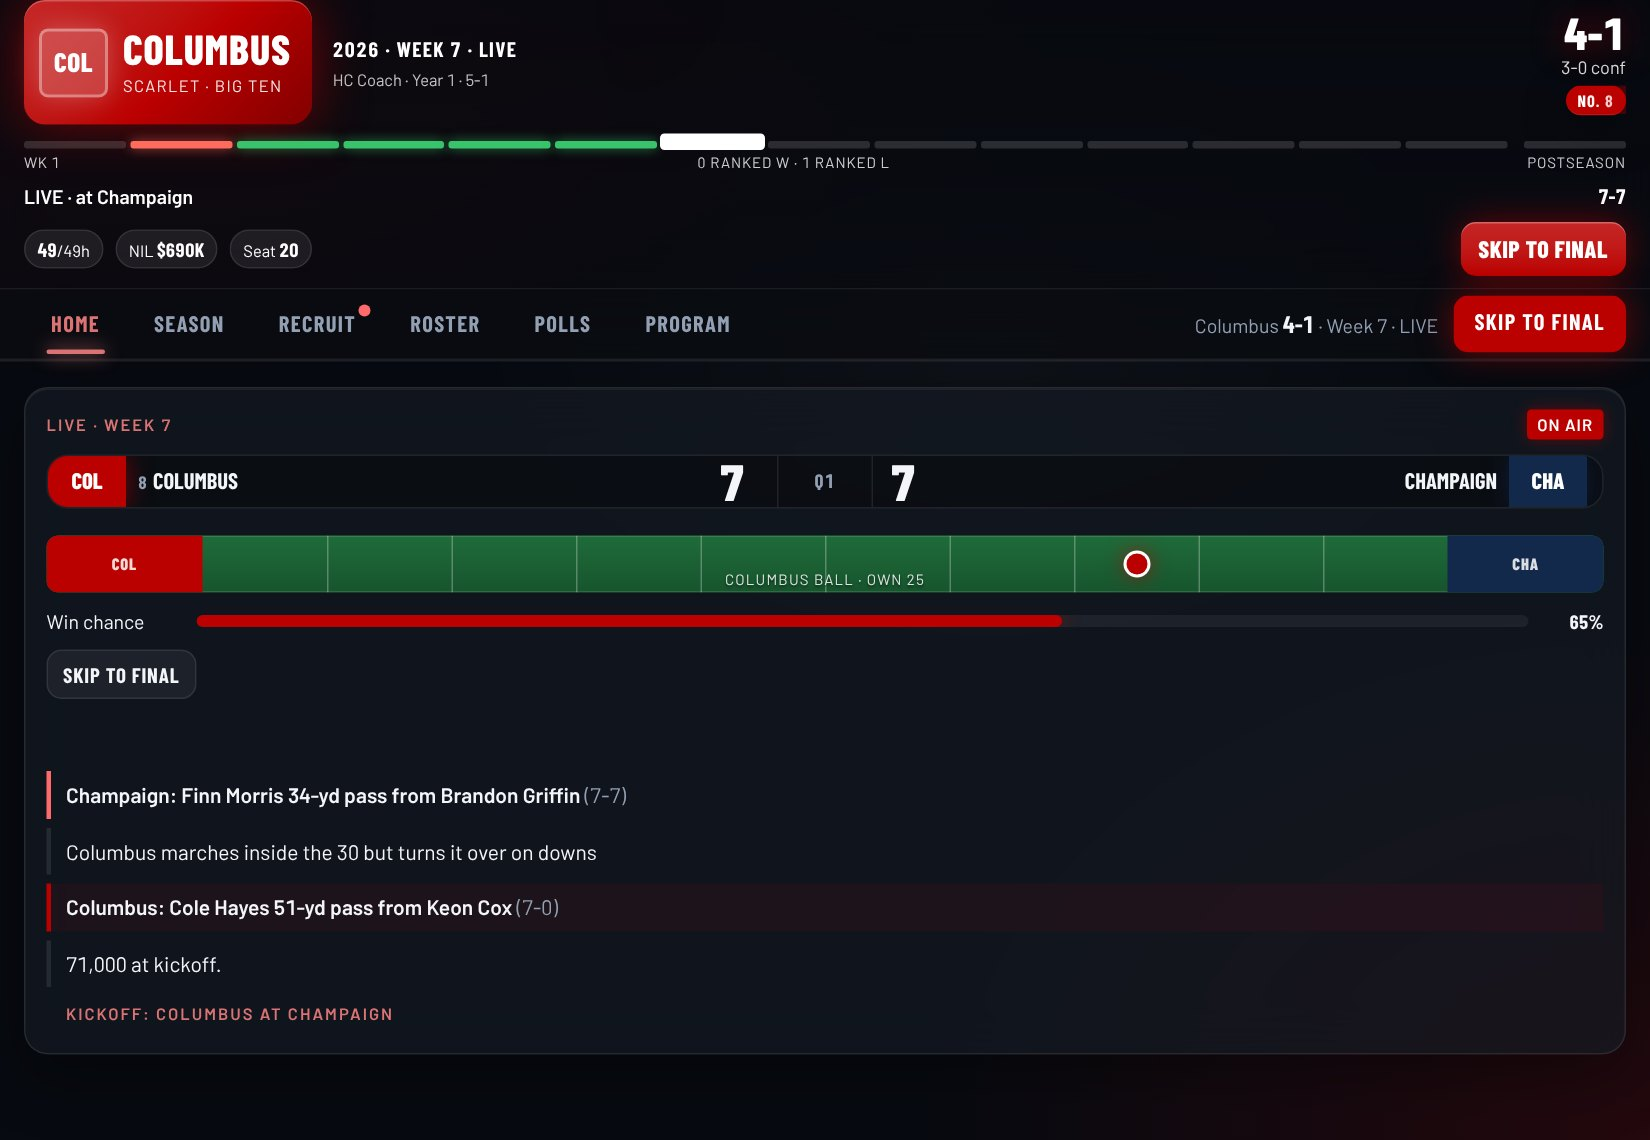
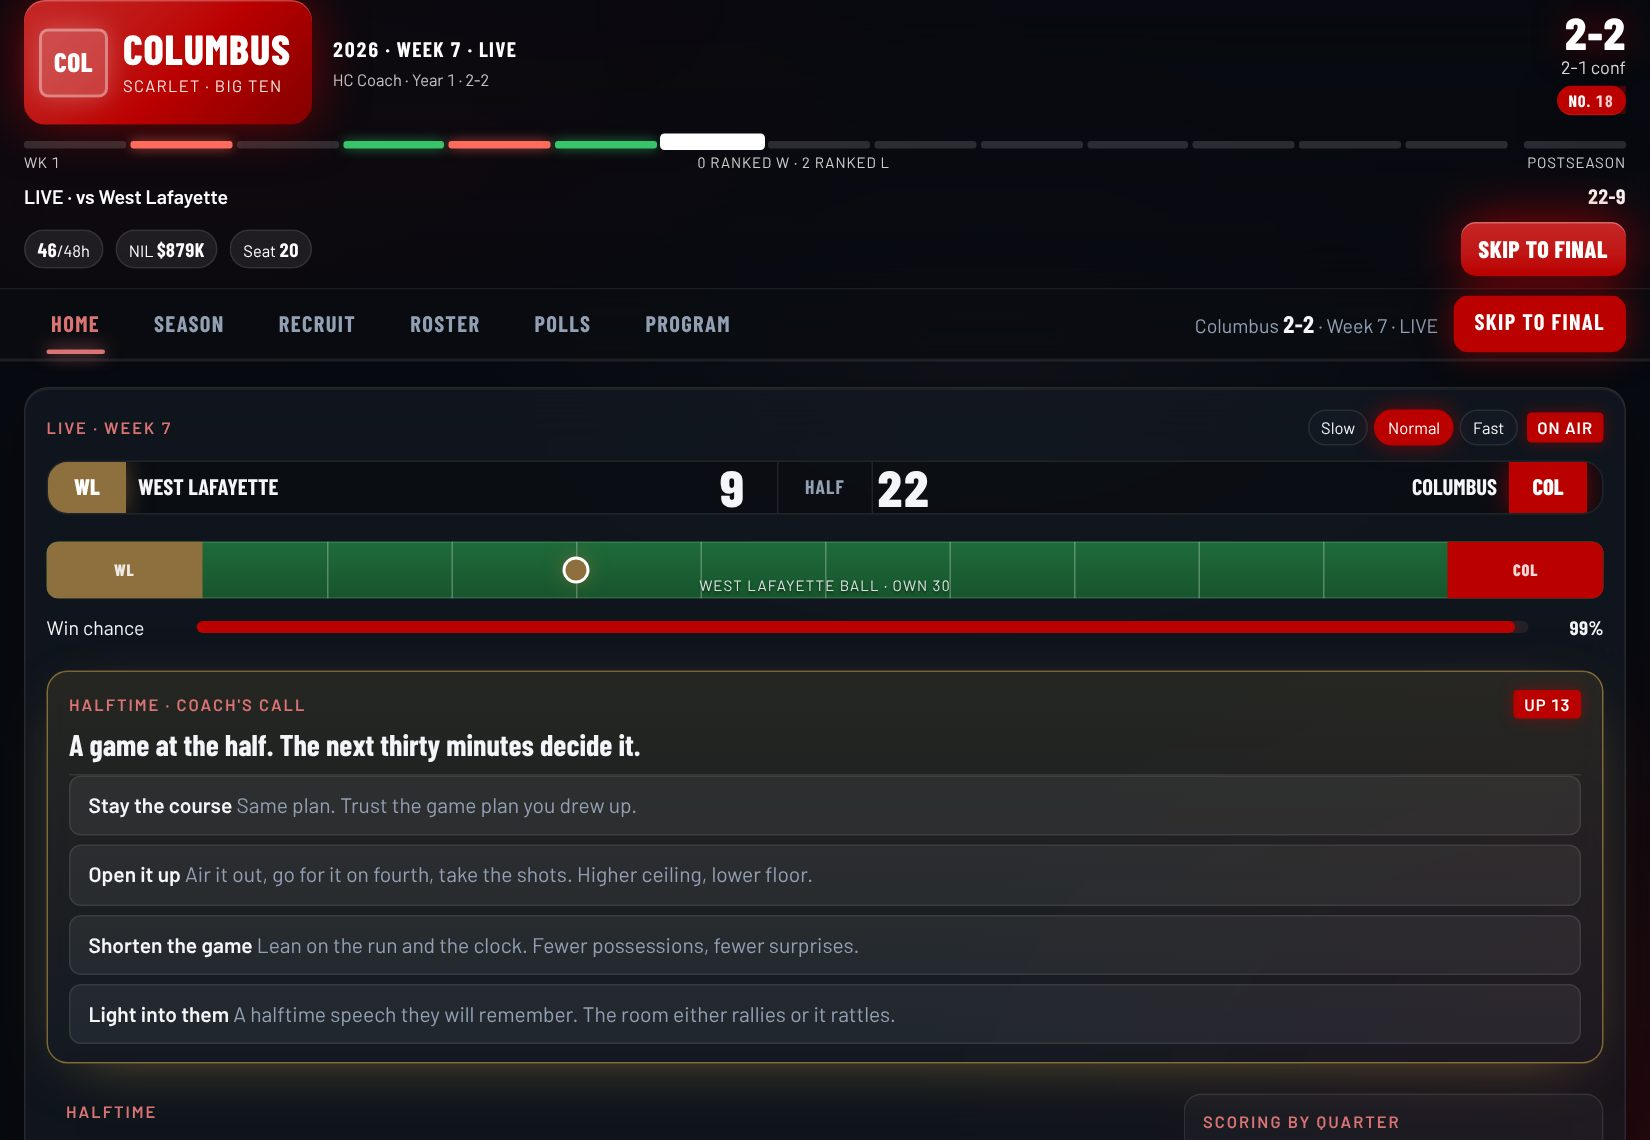
1.69.0: Visiting recruits show up on the broadcast sideline. Bold calls that win (going for it, sending the house, lighting into them, opening it up) earn big-game XP. Website screenshots and copy refreshed for the live calls.
Claude-Session: https://claude.ai/code/session_01HBQyJtzy8Sp6i9vWAcSez4

diff --git a/app/index.html b/app/index.html
@@ -4,7 +4,7 @@
 <meta charset="utf-8">
 <meta name="viewport" content="width=device-width, initial-scale=1">
 <meta http-equiv="Content-Security-Policy" content="default-src 'self' 'unsafe-inline' data:; img-src 'self' data:; font-src 'self' data:">
-<meta name="app-version" content="1.68.0">
+<meta name="app-version" content="1.69.0">
 <title>Saturday Sweater</title>
 <style>
 @font-face{font-family:"Barlow";font-weight:400;src:url(fonts/barlow-latin-400-normal.woff2) format("woff2")}
@@ -2194,7 +2194,8 @@ function buildFeed(g,playsIn,half){
   const R=gameRiv(g);const big=(g.hrank<=25&&g.arank<=25)||g.type!=='reg';const crowd=g.neutral?rint(60,78):(g.crowd||crowdFor(g).crowd);
   const extra=g.hc===g.home?' Homecoming weekend: alumni everywhere, the band on the field early.':g.sd===g.home?' Senior Day. The seniors walk out with their families before kickoff.':'';
   const stage=g.type==='po'?(g.round==='f'?'The national championship game. ':g.round==='sf'?'A playoff semifinal. ':g.round==='qf'?'A playoff quarterfinal. ':'College Football Playoff, first round, on campus in December. ')+(g.round==='r1'?'':'')+(g.hrank<=25||g.arank<=25?`${a.name} ${a.rank<=25?'(No. '+a.rank+') ':''}at ${h.name}${h.rank<=25?' (No. '+h.rank+')':''}. `:''):g.type==='ccg'?`The ${CONFS[g.confName]?CONFS[g.confName].name:''} championship game. A trophy and a playoff bid on the line. `:g.type==='bowl'?`The ${g.name} Bowl. ${pick(['Bowl season: half the stadium is on vacation and the other half is loud.','Two weeks of practice and a trophy at the end of it.','Pageantry everywhere, and some players already have one foot in the portal.'])} `:'';
-  const scene=stage+(R&&R.name?`${R.name}. ${crowd},000 and the student section has been in since noon. ${R.streak&&R.streak.n>=2?T(R.streak.team).name+' has won '+R.streak.n+' straight in this series.':'Series '+(R.w[h.id]||0)+'-'+(R.w[a.id]||0)+' with '+(R.w[h.id]>=(R.w[a.id]||0)?h.name:a.name)+' in front.'}`:big?`${crowd},000 in the building for a ranked matchup. It is loud.`:g.neutral?`Neutral site, ${crowd},000 split down the middle.`:`${crowd},000 at kickoff.`)+extra;
+  const vis=(()=>{try{const hid=isHuman(g.home)?g.home:isHuman(g.away)?g.away:null;if(hid==null)return '';const L2=G.recruits.filter(r=>r.committed==null&&r.visitWk===g.week&&(g.home===G.user||g.away===G.user)).slice(0,2);return L2.length?` ${L2.map(r=>`${starStr(r.stars)} ${r.pos} ${r.n}`).join(' and ')} ${L2.length>1?'are':'is'} on the ${T(hid).name} sideline for this one.`:'';}catch(e){return '';}})();
+  const scene=stage+(R&&R.name?`${R.name}. ${crowd},000 and the student section has been in since noon. ${R.streak&&R.streak.n>=2?T(R.streak.team).name+' has won '+R.streak.n+' straight in this series.':'Series '+(R.w[h.id]||0)+'-'+(R.w[a.id]||0)+' with '+(R.w[h.id]>=(R.w[a.id]||0)?h.name:a.name)+' in front.'}`:big?`${crowd},000 in the building for a ranked matchup. It is loud.`:g.neutral?`Neutral site, ${crowd},000 split down the middle.`:`${crowd},000 at kickoff.`)+extra+vis;
   const wx=wxFor(g);const jn=isHuman(g.home)?withCoachRet(g.home,()=>jerseyNight(g)):null;const feed=[{k:'q',text:`Kickoff: ${a.name} at ${h.name}`,hs:0,as:0},{k:'f',team:g.home,text:scene+(jn?` ${jn.n} walks out at midfield with his family and the number goes up on the facade. The place loses it.`:'')+(wx?' '+({snow:'Snow is falling and the yard lines are going.',rain:'Steady rain. The ball is already slick.',wind:'Flags are standing straight out. Kickers are nervous.',heat:'It is brutally hot. Trainers have the tents up.',cold:'Teens at kickoff. Breath hanging over the sideline.'})[wx]:''),hs:0,as:0}];let hs=0,as=0,q=1;
   const CROWD=['The crowd noise forces a false start on {t}','{d} gets the whole stadium on its feet with a third-down stop','The student section is chanting at the {t} sideline','A scuffle after the whistle; flags on both teams','{t} goes for it on fourth down and the place is shaking','{d} jaws with the {t} bench after a sack'];
   // drive state: who has it and where (yards from the offense's own goal line)
@@ -2258,6 +2259,7 @@ function actFourth(k){const L=UI.live;if(!L||!L.pre||!L.pre.decided||L.pre.decid
   const line4={k:'f',call:true,q:4,time:'15:00',team:G.user,text:k==='stay'?'Fourth quarter. No tricks, just football.':k==='go'?'Fourth quarter. The punter can sit down; you are going for everything.':k==='clock'?'Fourth quarter. Three yards and a cloud of dust, and the clock keeps moving.':k==='prevent'?'Fourth quarter. Safeties are twenty yards deep. Bend, do not break.':(L.pre.blitzHit?'Fourth quarter. You send the house and the first blitz gets home for a strip-sack.':'Fourth quarter. You send the house and the first screen goes forty yards the other way.'),hs:last.hs,as:last.as,pos:rest[0]?rest[0].pos:null,yd:rest[0]?rest[0].yd:25};
   g._forced={hs,as,ot:otf};g.h1=h1;g._pre={[g.home]:L.pre.preH,[g.away]:L.pre.preA,through:4};g._call=L.pre.decided;g._call4=k;g._callBy=G.user;const snap=L.snap;
   const feed=[...preFeed,line4,...rest];UI.live={gid:g.id,snap,feed,shown:preFeed.length,done:false,call:L.pre.decided,call4:k,coop:coopOn()};
+  {const myW=me?hs>as:as>hs;if(myW&&(k==='go'||k==='blitz'||L.pre.decided==='fire'||L.pre.decided==='open'))addXP('big',1);}
   if(!coopOn()){simWeek();delete G._restWk;
     // injuries from this week show up in the broadcast
     try{const u=userTeam();const hurt=u.roster.map(P).filter(p=>p&&p.injW===G.week-1&&p.inj>0&&p.injN!=='suspension').slice(0,2);const F=UI.live.feed;const endI=F.findIndex(it=>it.k==='end');const startI=F.findIndex(it=>it.call&&it.q===4);if(endI>0){hurt.forEach((p,i)=>{const lo=Math.max(startI+1,1),hi=Math.max(lo,endI-1);const at=rint(lo,hi);const nb=F[Math.max(0,at-1)];F.splice(at,0,{k:'f',inj:true,team:G.user,q:nb.q||4,time:nb.time,hs:nb.hs,as:nb.as,pos:nb.pos,yd:nb.yd,text:`${p.pos} ${p.n} is down on the field. ${pick(['The trainers are out there a while.','He walks off under his own power but heads straight to the tent.','Carted off. The stadium goes quiet.','Helped off by two trainers.'])} ${p.injN==='concussion protocol'?'Concussion protocol.':p.injN.charAt(0).toUpperCase()+p.injN.slice(1)+', out '+p.inj+' week'+(p.inj>1?'s':'')+'.'}`});});}}catch(e){}}

diff --git a/site/play/index.html b/site/play/index.html
@@ -2181,7 +2181,8 @@ function buildFeed(g,playsIn,half){
   const R=gameRiv(g);const big=(g.hrank<=25&&g.arank<=25)||g.type!=='reg';const crowd=g.neutral?rint(60,78):(g.crowd||crowdFor(g).crowd);
   const extra=g.hc===g.home?' Homecoming weekend: alumni everywhere, the band on the field early.':g.sd===g.home?' Senior Day. The seniors walk out with their families before kickoff.':'';
   const stage=g.type==='po'?(g.round==='f'?'The national championship game. ':g.round==='sf'?'A playoff semifinal. ':g.round==='qf'?'A playoff quarterfinal. ':'College Football Playoff, first round, on campus in December. ')+(g.round==='r1'?'':'')+(g.hrank<=25||g.arank<=25?`${a.name} ${a.rank<=25?'(No. '+a.rank+') ':''}at ${h.name}${h.rank<=25?' (No. '+h.rank+')':''}. `:''):g.type==='ccg'?`The ${CONFS[g.confName]?CONFS[g.confName].name:''} championship game. A trophy and a playoff bid on the line. `:g.type==='bowl'?`The ${g.name} Bowl. ${pick(['Bowl season: half the stadium is on vacation and the other half is loud.','Two weeks of practice and a trophy at the end of it.','Pageantry everywhere, and some players already have one foot in the portal.'])} `:'';
-  const scene=stage+(R&&R.name?`${R.name}. ${crowd},000 and the student section has been in since noon. ${R.streak&&R.streak.n>=2?T(R.streak.team).name+' has won '+R.streak.n+' straight in this series.':'Series '+(R.w[h.id]||0)+'-'+(R.w[a.id]||0)+' with '+(R.w[h.id]>=(R.w[a.id]||0)?h.name:a.name)+' in front.'}`:big?`${crowd},000 in the building for a ranked matchup. It is loud.`:g.neutral?`Neutral site, ${crowd},000 split down the middle.`:`${crowd},000 at kickoff.`)+extra;
+  const vis=(()=>{try{const hid=isHuman(g.home)?g.home:isHuman(g.away)?g.away:null;if(hid==null)return '';const L2=G.recruits.filter(r=>r.committed==null&&r.visitWk===g.week&&(g.home===G.user||g.away===G.user)).slice(0,2);return L2.length?` ${L2.map(r=>`${starStr(r.stars)} ${r.pos} ${r.n}`).join(' and ')} ${L2.length>1?'are':'is'} on the ${T(hid).name} sideline for this one.`:'';}catch(e){return '';}})();
+  const scene=stage+(R&&R.name?`${R.name}. ${crowd},000 and the student section has been in since noon. ${R.streak&&R.streak.n>=2?T(R.streak.team).name+' has won '+R.streak.n+' straight in this series.':'Series '+(R.w[h.id]||0)+'-'+(R.w[a.id]||0)+' with '+(R.w[h.id]>=(R.w[a.id]||0)?h.name:a.name)+' in front.'}`:big?`${crowd},000 in the building for a ranked matchup. It is loud.`:g.neutral?`Neutral site, ${crowd},000 split down the middle.`:`${crowd},000 at kickoff.`)+extra+vis;
   const wx=wxFor(g);const jn=isHuman(g.home)?withCoachRet(g.home,()=>jerseyNight(g)):null;const feed=[{k:'q',text:`Kickoff: ${a.name} at ${h.name}`,hs:0,as:0},{k:'f',team:g.home,text:scene+(jn?` ${jn.n} walks out at midfield with his family and the number goes up on the facade. The place loses it.`:'')+(wx?' '+({snow:'Snow is falling and the yard lines are going.',rain:'Steady rain. The ball is already slick.',wind:'Flags are standing straight out. Kickers are nervous.',heat:'It is brutally hot. Trainers have the tents up.',cold:'Teens at kickoff. Breath hanging over the sideline.'})[wx]:''),hs:0,as:0}];let hs=0,as=0,q=1;
   const CROWD=['The crowd noise forces a false start on {t}','{d} gets the whole stadium on its feet with a third-down stop','The student section is chanting at the {t} sideline','A scuffle after the whistle; flags on both teams','{t} goes for it on fourth down and the place is shaking','{d} jaws with the {t} bench after a sack'];
   // drive state: who has it and where (yards from the offense's own goal line)
@@ -2245,6 +2246,7 @@ function actFourth(k){const L=UI.live;if(!L||!L.pre||!L.pre.decided||L.pre.decid
   const line4={k:'f',call:true,q:4,time:'15:00',team:G.user,text:k==='stay'?'Fourth quarter. No tricks, just football.':k==='go'?'Fourth quarter. The punter can sit down; you are going for everything.':k==='clock'?'Fourth quarter. Three yards and a cloud of dust, and the clock keeps moving.':k==='prevent'?'Fourth quarter. Safeties are twenty yards deep. Bend, do not break.':(L.pre.blitzHit?'Fourth quarter. You send the house and the first blitz gets home for a strip-sack.':'Fourth quarter. You send the house and the first screen goes forty yards the other way.'),hs:last.hs,as:last.as,pos:rest[0]?rest[0].pos:null,yd:rest[0]?rest[0].yd:25};
   g._forced={hs,as,ot:otf};g.h1=h1;g._pre={[g.home]:L.pre.preH,[g.away]:L.pre.preA,through:4};g._call=L.pre.decided;g._call4=k;g._callBy=G.user;const snap=L.snap;
   const feed=[...preFeed,line4,...rest];UI.live={gid:g.id,snap,feed,shown:preFeed.length,done:false,call:L.pre.decided,call4:k,coop:coopOn()};
+  {const myW=me?hs>as:as>hs;if(myW&&(k==='go'||k==='blitz'||L.pre.decided==='fire'||L.pre.decided==='open'))addXP('big',1);}
   if(!coopOn()){simWeek();delete G._restWk;
     // injuries from this week show up in the broadcast
     try{const u=userTeam();const hurt=u.roster.map(P).filter(p=>p&&p.injW===G.week-1&&p.inj>0&&p.injN!=='suspension').slice(0,2);const F=UI.live.feed;const endI=F.findIndex(it=>it.k==='end');const startI=F.findIndex(it=>it.call&&it.q===4);if(endI>0){hurt.forEach((p,i)=>{const lo=Math.max(startI+1,1),hi=Math.max(lo,endI-1);const at=rint(lo,hi);const nb=F[Math.max(0,at-1)];F.splice(at,0,{k:'f',inj:true,team:G.user,q:nb.q||4,time:nb.time,hs:nb.hs,as:nb.as,pos:nb.pos,yd:nb.yd,text:`${p.pos} ${p.n} is down on the field. ${pick(['The trainers are out there a while.','He walks off under his own power but heads straight to the tent.','Carted off. The stadium goes quiet.','Helped off by two trainers.'])} ${p.injN==='concussion protocol'?'Concussion protocol.':p.injN.charAt(0).toUpperCase()+p.injN.slice(1)+', out '+p.inj+' week'+(p.inj>1?'s':'')+'.'}`});});}}catch(e){}}

diff --git a/site/index.html b/site/index.html
@@ -129,7 +129,7 @@ footer .wrap{display:flex;justify-content:space-between;flex-wrap:wrap;gap:10px}
   <p class="sub">A 136-school landscape with ten conferences, conference title games, a 12-team playoff with byes and home first-round games, rivalries you have to earn, and a Heisman race driven by real production.</p>
   <div class="feats">
     <div class="feat"><div class="n">RECRUITING</div><h3>Win the living room</h3><p>Text recruits, read their personality, pitch what they care about, and answer the family at dinner on the visit. Scholarships, NIL and a fund you have to raise yourself.</p></div>
-    <div class="feat"><div class="n">GAME DAY</div><h3>Watch it play out</h3><p>Games resolve live: field goals, long touchdowns, fumble returns, crowd noise, a swinging win-probability meter and a full box score at the final.</p></div>
+    <div class="feat"><div class="n">GAME DAY</div><h3>Watch it play out, then make the call</h3><p>Games play live with a drive-by-drive broadcast, a field that tracks the ball, weather, and a swinging win-probability meter. At halftime and again in a tight fourth quarter the broadcast stops and you make the call: open it up, bleed the clock, send the house, light into them. The rest of the game is simulated from your choice.</p></div>
     <div class="feat"><div class="n">RIVALRIES</div><h3>Earned, never given</h3><p>Ranked matchups, close finishes, upsets and revenge games build heat between two programs. Enough heat and the series gets a trophy name and a spot in Rivalry Week. Lose three straight and the boosters get loud.</p></div>
     <div class="feat"><div class="n">THE PODIUM</div><h3>Face the press</h3><p>After every game you pick an answer. Fans, the locker room, the athletic department and the media keep score, and it decides your hot seat and which jobs call.</p></div>
     <div class="feat"><div class="n">THE ROSTER</div><h3>Players are people</h3><p>Traits, injuries, breakouts and busts. Leaders hold a locker room together, flight risks hit the portal, late bloomers pop in camp. Pin your own depth chart.</p></div>
